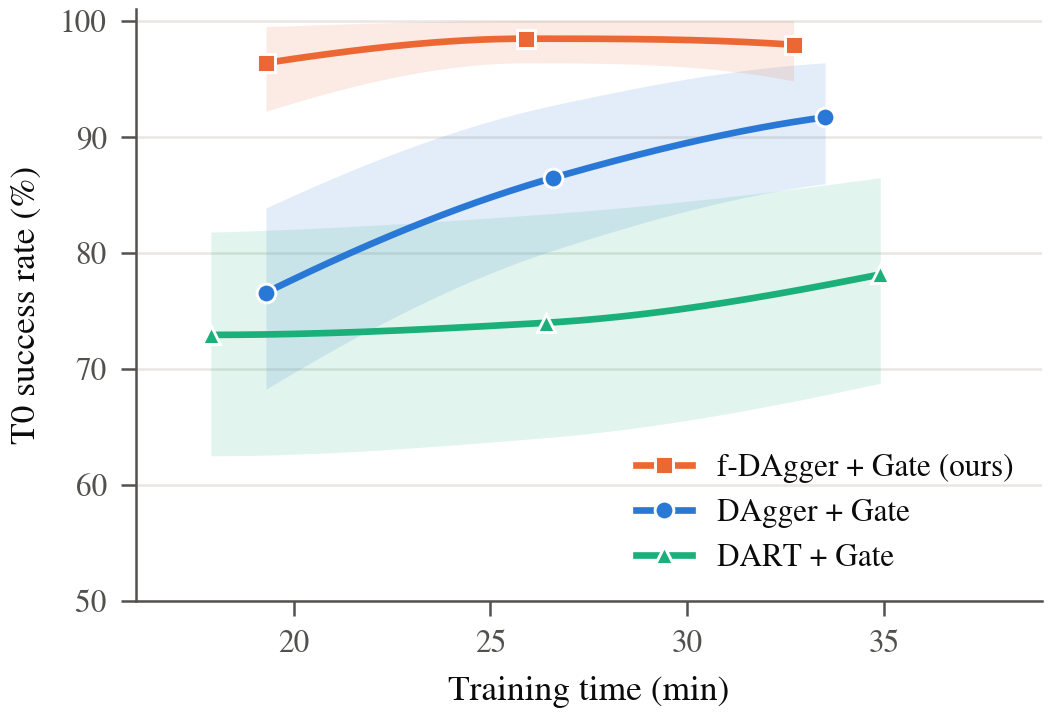
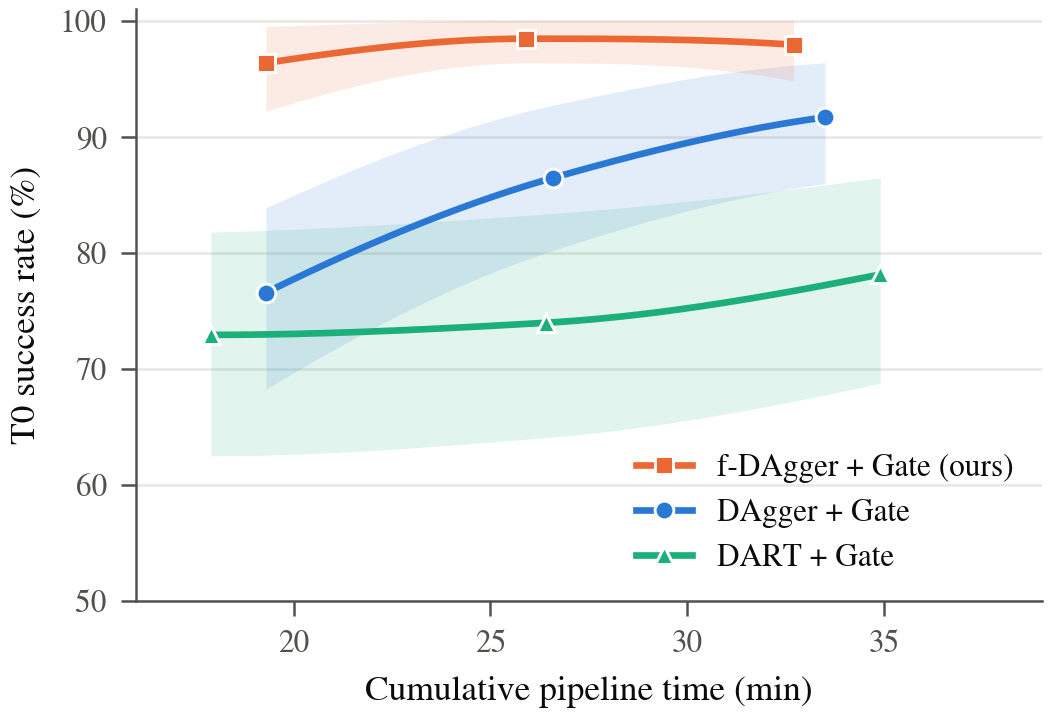
docs: align report results with approved review

Changed region(s): [[0.3352, 0.9472, 0.7924, 1.0]]

diff --git a/final/robotnik_arm_task/report/09_network_size/code/make_tables.py b/final/robotnik_arm_task/report/09_network_size/code/make_tables.py
@@ -205,7 +205,8 @@ def main() -> int:
         val.append({"size": size_label(arch), "parameters": mlp_cost(SIZES[arch][0])[0],
                     "ou_gate_per_seed": " / ".join(str(a) for a, _ in ou), "ou_gate_pooled": fmt(ou_r),
                     "f_dagger_gate_round": k, "f_dagger_gate_per_seed": " / ".join(str(a) for a, _ in fd),
-                    "f_dagger_gate_pooled": fmt(fd_r), "gain_pp": round(fd_r["pct"] - ou_r["pct"], 1),
+                    "f_dagger_gate_pooled": fmt(fd_r),
+                    "gain_pp": round(100 * (fd_r["k"] / fd_r["n"] - ou_r["k"] / ou_r["n"]), 1),
                     "chain_round0_seed0": r0,
                     "chain_seed0_by_round": tm[arch]["by_round_s0"] if arch != "MLP01" else ""})
     write_csv("validation.csv", val)
@@ -265,35 +266,46 @@ def main() -> int:
             write_csv("rerun.csv", rerun)
 
     # ---------------------------------------------------------------- LaTeX
-    def pct(r):
-        return f"{r['pct']:.1f}"
-    lines = [r"\begin{table}[!htbp]",
-             r"\caption{MLP Size: Validation and Test Success (\%) Across Hidden Widths.}",
-             r"\label{tab:network-size}", r"\centering", r"\setlength{\tabcolsep}{2.5pt}",
-             r"\begin{tabular}{@{}lrrrrrrrr@{}}", r"\toprule",
-             r" & & \multicolumn{3}{c}{Validation} & \multicolumn{4}{c}{Test: f-DAgger+Gate} \\",
-             r"\cmidrule(lr){3-5}\cmidrule(l){6-9}",
-             r"Hidden & Params & \shortstack{OU\\+Gate} & \shortstack{f-DAgger\\+Gate} & $\Delta$ & \shortstack{T0+T4\\+T5} & "
-             r"\shortstack{T2\\+T3} & T1 & All \\", r"\midrule"]
+    def paper_rates(counts):
+        far_k, far_n = counts["far (T1)"]
+        edge_k, edge_n = counts["edges (T2+T3)"]
+        return [rate(*counts["in range (T0+T4+T5)"]), rate(far_k + edge_k, far_n + edge_n)]
+
+    paper_rows = []
     for arch, v in zip(ORDER, val):
         counts = lt["R8"] if arch == "MLP01" else tm[arch]["test"]
         ou_k, fd_k = (sum(int(x) for x in v[c].split(" / ")) for c in ("ou_gate_per_seed", "f_dagger_gate_per_seed"))
-        ou_r, fd_r = rate(ou_k, 96), rate(fd_k, 96)
-        cells = [f"${SIZES[arch][0][0]}\\times3$", f"{v['parameters']:,}", pct(ou_r), pct(fd_r),
-                 f"${fd_r['pct'] - ou_r['pct']:+.1f}$"] + [pct(rate(*counts[g])) for g in GROUPS]
-        if arch == "MLP01":
-            cells = [r"$\mathbf{256\times3}$"] + [r"$\mathbf{" + c.strip("$") + "}$" if c.startswith("$")
-                                                  else r"\textbf{" + c + "}" for c in cells[1:]]
+        values = [rate(ou_k, 96)["pct"], rate(fd_k, 96)["pct"]] + [r["pct"] for r in paper_rates(counts)]
+        paper_rows.append((arch, v, values))
+    best = [max(values[i] for _, _, values in paper_rows) for i in range(4)]
+
+    def cell(value, column):
+        text = f"{value:.1f}"
+        return r"\textbf{" + text + "}" if value == best[column] else text
+
+    lines = [r"\begin{table}[!htbp]",
+             r"\caption{MLP Size: Validation and Test Success (\%) Across Hidden Widths.}",
+             r"\label{tab:network-size}", r"\centering", r"\setlength{\tabcolsep}{2.5pt}",
+             r"\begin{tabular}{@{}lrrrrrr@{}}", r"\toprule",
+             r" & & \multicolumn{3}{c}{Validation} & \multicolumn{2}{c}{Test: f-DAgger+Gate} \\",
+             r"\cmidrule(lr){3-5}\cmidrule(l){6-7}",
+             r"Hidden & Params & \shortstack{OU\\+Gate} & \shortstack{f-DAgger\\+Gate} & "
+             r"\shortstack{$\Delta$\\(pp)} & Accuracy & Generalization \\", r"\midrule"]
+    for arch, v, values in paper_rows:
+        cells = [f"${SIZES[arch][0][0]}\\times3$", f"{v['parameters']:,}",
+                 cell(values[0], 0), cell(values[1], 1), f"${v['gain_pp']:+.1f}$",
+                 cell(values[2], 2), cell(values[3], 3)]
         lines.append(" & ".join(cells) + r" \\")
     lines += [r"\midrule",
-              "Expert & -- & -- & -- & -- & " + " & ".join(pct(rate(*lt["expert"][g])) for g in GROUPS) + r" \\",
+              "Expert & -- & -- & -- & -- & " + " & ".join(f"{r['pct']:.1f}" for r in paper_rates(lt["expert"])) + r" \\",
               r"\bottomrule", r"\end{tabular}", r"\par\smallskip",
               r"\begin{minipage}{\columnwidth}\footnotesize",
-              r"Three hidden layers of width $w$. $\Delta$: f-DAgger+Gate minus OU+Gate on",
-              r"validation (points). Student rates pool three seeds; the expert is",
-              r"evaluated once. Validation: 32 scenes. Test: T0+T4+T5 112 scenes, T2+T3 56,",
-              r"T1 72. Each width uses its own f-DAgger collection chain; $w\le128$ ran on a",
-              r"second machine. Bold: the main model of Section~\ref{sec:performance}.",
+              r"Three hidden layers of width $w$. Student rates pool three seeds;",
+              r"the expert is evaluated once. Validation: 32 scenes.",
+              r"Accuracy: T0+T4+T5 (112 scenes); Generalization: T1+T2+T3 (128 scenes).",
+              r"Each width uses its own f-DAgger collection chain.",
+              r"Peak learning rate: $10^{-2}$ for $w=32$, $10^{-3}$ otherwise.",
+              r"Bold: best student result per column.",
               r"\end{minipage}", r"\end{table}"]
     (OUT / "network-size.tex").write_text("\n".join(lines) + "\n")
 

diff --git a/final/robotnik_arm_task/report/10_robustness/code/make_tables.py b/final/robotnik_arm_task/report/10_robustness/code/make_tables.py
@@ -35,7 +35,7 @@ METHODS = {"teacher-A": ("Expert", "Expert", "--"), "R4": ("OU + Gate", "OU", "Y
            "R8": ("f-DAgger + Gate", "f-DAgger", "Yes")}
 LABELS = {"nominal": "Nominal", "friction x0.5": r"Friction $\times0.5$", "friction x1.5": r"Friction $\times1.5$",
           "mass x0.9": r"Mass $\times0.9$", "mass x1.1": r"Mass $\times1.1$",
-          "sensor noise x20": r"Sensor noise $\times20$", "push base, driving": "Base push, driving",
+          "sensor noise x20": "Sensor noise", "push base, driving": "Base push, driving",
           "push base, at target": "Base push, at target", "push hand, at target": "Hand push, at target"}
 
 
@@ -117,7 +117,8 @@ def main() -> int:
     expert_fail = [c for c in conditions if c not in expert_ok]
 
     def line_tex(c):
-        cells = [LABELS.get(c, c), "%d/%d" % counts[(c, "teacher-A")]]
+        k, n = counts[(c, "teacher-A")]
+        cells = [LABELS.get(c, c), f"{100 * k / n:.1f}"]
         vals = [100 * counts[(c, m)][0] / counts[(c, m)][1] for m in students]
         best = max(vals)
         cells += [(r"\textbf{%.1f}" if v == best else "%.1f") % v for v in vals]
@@ -126,22 +127,22 @@ def main() -> int:
     lines = [r"\begin{table}[!htbp]",
              r"\caption{Robustness: Hold Success (\%) Under Unseen Perturbations.}",
              r"\label{tab:robustness}", r"\centering", r"\setlength{\tabcolsep}{3pt}",
-             r"\begin{tabular}{@{}lcrrrrr@{}}", r"\toprule",
+             r"\begin{tabular}{@{}lrrrrrr@{}}", r"\toprule",
              r"Condition & Expert & OU & DAgger & DAgger & f-DAgger & f-DAgger \\",
              r"Gate & -- & Yes & No & Yes & No & Yes \\", r"\midrule",
              r"\multicolumn{7}{@{}l}{\textit{Expert holds every scene}} \\"]
     lines += [line_tex(c) for c in expert_ok]
-    lines += [r"\midrule", r"\multicolumn{7}{@{}l}{\textit{Expert itself fails}} \\"]
+    lines += [r"\midrule", r"\multicolumn{7}{@{}l}{\textit{Expert fails in some scenes}} \\"]
     lines += [line_tex(c) for c in expert_fail]
     LABELS["all 8 perturbations"] = "All perturbations"
-    # same 8 perturbations, restricted to the scenes the expert holds (expert column: held scenes / held scenes)
+    # Same eight perturbations, restricted to the scenes the expert holds.
     LABELS["all 8 perturbations | expert-held"] = "Expert-held scenes"
     lines += [r"\midrule", line_tex("all 8 perturbations"), line_tex("all 8 perturbations | expert-held")]
     lines += [r"\bottomrule", r"\end{tabular}", r"\par\smallskip", r"\begin{minipage}{\columnwidth}\footnotesize",
               r"12 in-range scenes per condition; students pool three seeds ($n=36$), the expert",
               r"runs once. Success: final 1\,s below 10\,mm after reaching. Pushes last 0.2\,s:",
               r"120\,N on the base, 20\,N on the hand, at target 1\,s after first reaching.",
-              r"Bottom rows pool the eight perturbations; expert-held keeps only the 76",
+              r"Bottom rows pool the eight perturbations (96 scenes); expert-held keeps the 76",
               r"perturbed scenes the expert holds. Bold: best student per row.",
               r"\end{minipage}", r"\end{table}"]
     (OUT / "robustness.tex").write_text("\n".join(lines) + "\n")

diff --git a/final/robotnik_arm_task/report/10_robustness/tables/robustness.tex b/final/robotnik_arm_task/report/10_robustness/tables/robustness.tex
@@ -3,26 +3,26 @@
 \label{tab:robustness}
 \centering
 \setlength{\tabcolsep}{3pt}
-\begin{tabular}{@{}lcrrrrr@{}}
+\begin{tabular}{@{}lrrrrrr@{}}
 \toprule
 Condition & Expert & OU & DAgger & DAgger & f-DAgger & f-DAgger \\
 Gate & -- & Yes & No & Yes & No & Yes \\
 \midrule
 \multicolumn{7}{@{}l}{\textit{Expert holds every scene}} \\
-Nominal & 12/12 & 86.1 & 77.8 & 80.6 & 83.3 & \textbf{91.7} \\
-Friction $\times0.5$ & 12/12 & 86.1 & 83.3 & 80.6 & 77.8 & \textbf{88.9} \\
-Friction $\times1.5$ & 12/12 & 94.4 & 91.7 & 91.7 & \textbf{97.2} & 91.7 \\
-Sensor noise $\times20$ & 12/12 & 94.4 & 97.2 & \textbf{100.0} & 94.4 & 97.2 \\
-Hand push, at target & 12/12 & 83.3 & 75.0 & 83.3 & 75.0 & \textbf{88.9} \\
+Nominal & 100.0 & 86.1 & 77.8 & 80.6 & 83.3 & \textbf{91.7} \\
+Friction $\times0.5$ & 100.0 & 86.1 & 83.3 & 80.6 & 77.8 & \textbf{88.9} \\
+Friction $\times1.5$ & 100.0 & 94.4 & 91.7 & 91.7 & \textbf{97.2} & 91.7 \\
+Sensor noise & 100.0 & 94.4 & 97.2 & \textbf{100.0} & 94.4 & 97.2 \\
+Hand push, at target & 100.0 & 83.3 & 75.0 & 83.3 & 75.0 & \textbf{88.9} \\
 \midrule
-\multicolumn{7}{@{}l}{\textit{Expert itself fails}} \\
-Mass $\times0.9$ & 6/12 & \textbf{50.0} & 36.1 & 16.7 & 19.4 & \textbf{50.0} \\
-Mass $\times1.1$ & 9/12 & \textbf{55.6} & 44.4 & 16.7 & 27.8 & 41.7 \\
-Base push, driving & 6/12 & 19.4 & 27.8 & 36.1 & 33.3 & \textbf{38.9} \\
-Base push, at target & 7/12 & 22.2 & \textbf{38.9} & 22.2 & 16.7 & 27.8 \\
+\multicolumn{7}{@{}l}{\textit{Expert fails in some scenes}} \\
+Mass $\times0.9$ & 50.0 & \textbf{50.0} & 36.1 & 16.7 & 19.4 & \textbf{50.0} \\
+Mass $\times1.1$ & 75.0 & \textbf{55.6} & 44.4 & 16.7 & 27.8 & 41.7 \\
+Base push, driving & 50.0 & 19.4 & 27.8 & 36.1 & 33.3 & \textbf{38.9} \\
+Base push, at target & 58.3 & 22.2 & \textbf{38.9} & 22.2 & 16.7 & 27.8 \\
 \midrule
-All perturbations & 76/96 & 63.2 & 61.8 & 55.9 & 55.2 & \textbf{65.6} \\
-Expert-held scenes & 76/76 & 75.4 & 73.2 & 68.4 & 69.7 & \textbf{80.3} \\
+All perturbations & 79.2 & 63.2 & 61.8 & 55.9 & 55.2 & \textbf{65.6} \\
+Expert-held scenes & 100.0 & 75.4 & 73.2 & 68.4 & 69.7 & \textbf{80.3} \\
 \bottomrule
 \end{tabular}
 \par\smallskip
@@ -30,7 +30,7 @@ Expert-held scenes & 76/76 & 75.4 & 73.2 & 68.4 & 69.7 & \textbf{80.3} \\
 12 in-range scenes per condition; students pool three seeds ($n=36$), the expert
 runs once. Success: final 1\,s below 10\,mm after reaching. Pushes last 0.2\,s:
 120\,N on the base, 20\,N on the hand, at target 1\,s after first reaching.
-Bottom rows pool the eight perturbations; expert-held keeps only the 76
+Bottom rows pool the eight perturbations (96 scenes); expert-held keeps the 76
 perturbed scenes the expert holds. Bold: best student per row.
 \end{minipage}
 \end{table}

diff --git a/final/robotnik_arm_task/report/09_network_size/tables/network-size.tex b/final/robotnik_arm_task/report/09_network_size/tables/network-size.tex
@@ -3,26 +3,27 @@
 \label{tab:network-size}
 \centering
 \setlength{\tabcolsep}{2.5pt}
-\begin{tabular}{@{}lrrrrrrrr@{}}
+\begin{tabular}{@{}lrrrrrr@{}}
 \toprule
- & & \multicolumn{3}{c}{Validation} & \multicolumn{4}{c}{Test: f-DAgger+Gate} \\
-\cmidrule(lr){3-5}\cmidrule(l){6-9}
-Hidden & Params & \shortstack{OU\\+Gate} & \shortstack{f-DAgger\\+Gate} & $\Delta$ & \shortstack{T0+T4\\+T5} & \shortstack{T2\\+T3} & T1 & All \\
+ & & \multicolumn{3}{c}{Validation} & \multicolumn{2}{c}{Test: f-DAgger+Gate} \\
+\cmidrule(lr){3-5}\cmidrule(l){6-7}
+Hidden & Params & \shortstack{OU\\+Gate} & \shortstack{f-DAgger\\+Gate} & \shortstack{$\Delta$\\(pp)} & Accuracy & Generalization \\
 \midrule
-$32\times3$ & 3,337 & 75.0 & 89.6 & $+14.6$ & 89.0 & 51.2 & 70.4 & 74.6 \\
-$64\times3$ & 10,761 & 79.2 & 90.6 & $+11.4$ & 90.5 & 53.0 & 65.3 & 74.2 \\
-$128\times3$ & 37,897 & 84.4 & 90.6 & $+6.2$ & 89.9 & 57.7 & 70.4 & 76.5 \\
-$\mathbf{256\times3}$ & \textbf{141,321} & \textbf{86.5} & \textbf{92.7} & $\mathbf{+6.2}$ & \textbf{93.2} & \textbf{54.8} & \textbf{45.8} & \textbf{70.0} \\
+$32\times3$ & 3,337 & 75.0 & 89.6 & $+14.6$ & 89.0 & 62.0 \\
+$64\times3$ & 10,761 & 79.2 & 90.6 & $+11.5$ & 90.5 & 59.9 \\
+$128\times3$ & 37,897 & 84.4 & 90.6 & $+6.2$ & 89.9 & \textbf{64.8} \\
+$256\times3$ & 141,321 & \textbf{86.5} & \textbf{92.7} & $+6.2$ & \textbf{93.2} & 49.7 \\
 \midrule
-Expert & -- & -- & -- & -- & 100.0 & 89.3 & 100.0 & 97.5 \\
+Expert & -- & -- & -- & -- & 100.0 & 95.3 \\
 \bottomrule
 \end{tabular}
 \par\smallskip
 \begin{minipage}{\columnwidth}\footnotesize
-Three hidden layers of width $w$. $\Delta$: f-DAgger+Gate minus OU+Gate on
-validation (points). Student rates pool three seeds; the expert is
-evaluated once. Validation: 32 scenes. Test: T0+T4+T5 112 scenes, T2+T3 56,
-T1 72. Each width uses its own f-DAgger collection chain; $w\le128$ ran on a
-second machine. Bold: the main model of Section~\ref{sec:performance}.
+Three hidden layers of width $w$. Student rates pool three seeds;
+the expert is evaluated once. Validation: 32 scenes.
+Accuracy: T0+T4+T5 (112 scenes); Generalization: T1+T2+T3 (128 scenes).
+Each width uses its own f-DAgger collection chain.
+Peak learning rate: $10^{-2}$ for $w=32$, $10^{-3}$ otherwise.
+Bold: best student result per column.
 \end{minipage}
 \end{table}

diff --git a/final/robotnik_arm_task/report/07_training_time_comparison/code/efficiency_plot.py b/final/robotnik_arm_task/report/07_training_time_comparison/code/efficiency_plot.py
@@ -5,7 +5,7 @@ Names ("+ Gate" = the 22-input models, as in ../../06_ablation/; every model her
   - f-DAgger + Gate (ours): phase-gated OU noise, then DAgger (R4 -> R8).
   - DAgger + Gate: DAgger from clean data (R2 -> R6).
   - DART + Gate: full DART with noise optimisation, alpha = 6 (R2 -> R9-dart-full-a6).
-Training time is the wall-clock time of the whole pipeline. It adds each method's own time (OU-noise collection; every
+Pipeline time is reconstructed from stage timings. It adds each method's own time (OU-noise collection; every
 train -> collect cycle) to the shared clean collection and round-0 training (SHARED_MIN, the same for every method).
 The figure shows rounds 1-3. Curves are monotone PCHIP interpolation between the measured rounds; bands are 95%
 scene-bootstrap CIs. The table keeps round 0 as well.
@@ -68,7 +68,7 @@ def plot(rows, out: Path):
                         color=colour, alpha=0.13, lw=0, zorder=1)
         ax.plot(xs, PchipInterpolator(x, y)(xs), color=colour, lw=1.6, zorder=2)
         ax.plot(x, y, ls="none", marker=marker, ms=4.5, color=colour, mec="white", mew=0.7, zorder=3)
-    ax.set_xlabel("Training time (min)")
+    ax.set_xlabel("Cumulative pipeline time (min)")
     ax.set_ylabel("T0 success rate (%)")
     ax.set_xlim(16, 39)
     ax.set_ylim(50, 101)

diff --git a/final/robotnik_arm_task/report/09_network_size/tables/summary.md b/final/robotnik_arm_task/report/09_network_size/tables/summary.md
@@ -7,7 +7,7 @@ Rebuilt by `code/make_tables.py`. Rates are % with 95% Wilson intervals and (suc
 | size | parameters | ou_gate_per_seed | ou_gate_pooled | f_dagger_gate_round | f_dagger_gate_per_seed | f_dagger_gate_pooled | gain_pp | chain_round0_seed0 | chain_seed0_by_round |
 |---|---|---|---|---|---|---|---|---|---|
 | 32×3 | 3337 | 25 / 25 / 22 | 75.0 [65.5, 82.6] (72/96) | 3 | 28 / 28 / 30 | 89.6 [81.9, 94.2] (86/96) | 14.6 | 19/32 | 19/32 / 22/32 / 27/32 / 28/32 |
-| 64×3 | 10761 | 25 / 25 / 26 | 79.2 [70.0, 86.1] (76/96) | 2 | 29 / 27 / 31 | 90.6 [83.1, 95.0] (87/96) | 11.4 | 24/32 | 24/32 / 26/32 / 29/32 / 28/32 |
+| 64×3 | 10761 | 25 / 25 / 26 | 79.2 [70.0, 86.1] (76/96) | 2 | 29 / 27 / 31 | 90.6 [83.1, 95.0] (87/96) | 11.5 | 24/32 | 24/32 / 26/32 / 29/32 / 28/32 |
 | 128×3 | 37897 | 26 / 27 / 28 | 84.4 [75.8, 90.3] (81/96) | 3 | 29 / 29 / 29 | 90.6 [83.1, 95.0] (87/96) | 6.2 | 26/32 | 26/32 / 25/32 / 29/32 / 29/32 |
 | 256×3 | 141321 | 29 / 27 / 27 | 86.5 [78.2, 91.9] (83/96) | 3 | 29 / 29 / 31 | 92.7 [85.7, 96.4] (89/96) | 6.2 |  |  |
 
